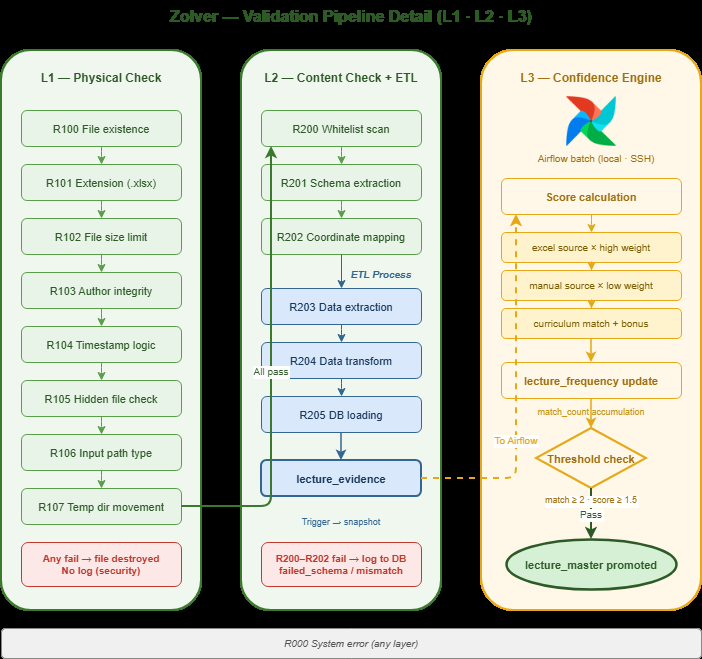
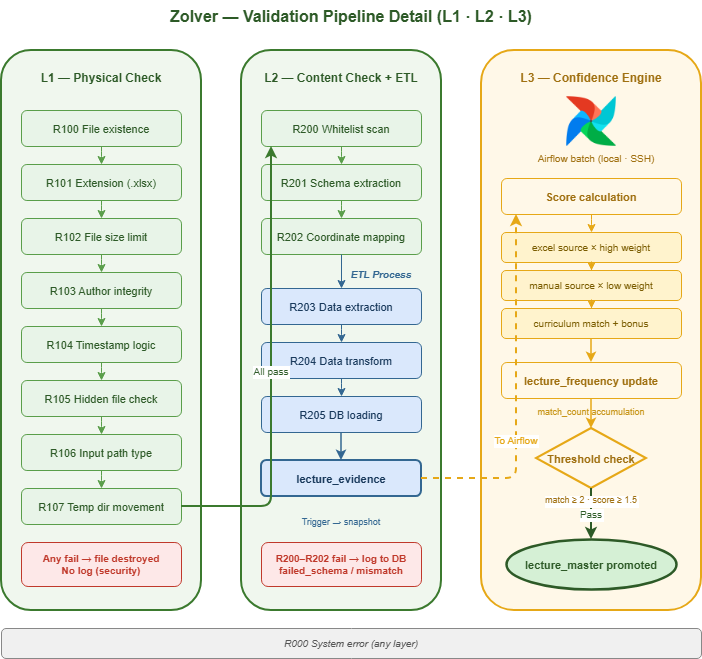
docs: add idempotency hash collision fix to design decisions

Changed region(s): [[0.0, 0.0, 1.0, 0.9712]]

diff --git a/src/content.js b/src/content.js
@@ -8,7 +8,8 @@ export const profile = {
   name: "Yoonjeong Hwang",
   greeting: "Hi, I'm Yoonjeong Hwang.",
   role: "Aspiring Data Engineer · Backend / Data Pipeline",
-  tagline: "I turned a single uploaded transcript into data you can actually trust — solo, end to end.",
+  tagline: "I like studying things in depth, writing down what I learn, and growing through the process with the people I build with.",
+  current: "Currently teaming up on a public-data ideas competition (ARTE × LINKareer).",
   links: {
     github: "https://github.com/hvvrnz",
     velog: "https://velog.io/@0lalsoo",
@@ -95,6 +96,8 @@ export const architecture = {
     title: "Data model",
     caption:
       "lecture_evidence (raw, per-upload) feeds lecture_validation (per-rule snapshot) which aggregates into lecture_frequency, the input to the L3 confidence score. Only records that clear the threshold get promoted into lecture_master — the table the rest of the app actually reads from.",
+    designNote:
+      "Intentional denormalization: under 1GB of RAM, join cost under traffic spikes looked riskier than redundant reads. Given the table count and data volume here, I chose select-only access patterns on purpose instead of relying on joins.",
   },
 };
 
@@ -193,6 +196,34 @@ export const designInsights = [
       "For response speed and memory, I picked extraction methods deliberately. scalar() drops everything but a single value, avoiding unnecessary row instantiation. mappings() adds column-name access at the cost of extra indexing overhead — useful when an API needs a dict of fields. fetchone() keeps the cursor open for further iteration; first() closes it immediately — so first() for single lookups, fetchone() for batch iteration, to avoid connection leaks under concurrent load.",
     code: null,
   },
+  {
+    title: "Two hashes, two different jobs, on account deletion",
+    body:
+      "provider_id_hash and the stored refresh token are both hashed, but deliberately with different properties. provider_id_hash uses a deterministic hash, so the same Kakao account always maps to the same value. That's load-bearing in two places: it's the input to a per-record unique_hash that keeps lecture_evidence idempotent (the same user uploading the same course for the same year/semester always resolves to the same row, never a duplicate), and it gives the L3 confidence engine a stable identity across deletion and re-signup — without it, the same person could resurface as a \u201Cnew\u201D account and inflate match_count artificially, corrupting the trust score for everyone, not just resetting one bad actor's history. The refresh token, by contrast, is hashed non-deterministically (salted), since it's a bearer secret rather than an identifier: it only ever needs to be verified, never matched against a second time. That distinction forced a security-vs-auditability trade-off that's visible directly in the schema: login_sessions keys off provider_id_hash, users keys off user_id, and user_actions_log carries both. On deletion, the users row is removed and every other user_id reference is set to NULL — except provider_id_hash inside user_actions_log, which is deliberately left in place.",
+    code: `-- on account deletion
+DELETE FROM users WHERE user_id = :id;
+UPDATE user_actions_log SET user_id = NULL WHERE user_id = :id;
+-- provider_id_hash in user_actions_log is left untouched,
+-- so abuse history survives deletion without staying linkable
+-- to an active account.`,
+  },
+  {
+    title: "A hash collision from a copy-pasted field",
+    body:
+      "unique_hash on each lecture_evidence row exists for idempotency: the same user uploading the same course for the same year/semester should always resolve to the same row. The first version of the input string included lecture_category twice instead of including lecture_name — so two different courses in the same category, year, and semester silently collided into the same hash, and one of them quietly overwrote the other. Adding lecture_name to the raw string fixed it.",
+    code: `# before — lecture_category appears twice, lecture_name is missing
+uhashraw = f"{lecture_category}:{lecture_code}:{completion_year}:{completion_semester}"
+
+# after — lecture_name included, so courses in the same
+# category/year/semester no longer collide
+uhashraw = f"{lecture_name}:{lecture_code}:{completion_year}:{completion_semester}"
+unique_hash = generate_unique_hash(pihash=provider_id_hash, uhashraw=uhashraw)
+
+def generate_unique_hash(pihash, uhashraw):
+    salt = settings.SALT
+    raw_text = f"{pihash}:{uhashraw}:{salt}"
+    return hashlib.sha256(raw_text.encode()).hexdigest()`,
+  },
 ];
 
 // AI recommendation story
@@ -244,12 +275,6 @@ export const observability = {
     "Failures by logger type — failed_schema vs. schema_mismatch_masked",
     "Failures by provider_id_hash — surfaces users hitting repeated errors",
   ],
-};
-
-export const perseverance = {
-  quote: "Because I said I would. And because if there's no working URL at the end, none of that time meant anything.",
-  body:
-    "I didn't know what RAM was, let alone an API, when I deferred graduation to build, ship, and run this service alone for five months. The hardest part was the isolation — no peers on the same path, no one to check whether I was even headed the right direction. I kept adding small pieces every day until there was a live service at the end of it.",
 };
 
 // Handwritten study notes — drop real scans into src/assets/notes/ and set `image` below

diff --git a/src/components.css b/src/components.css
@@ -21,8 +21,8 @@
 .hero-text { flex: 1; min-width: 0; }
 .hero-photo-frame {
   flex-shrink: 0;
-  width: 104px;
-  height: 104px;
+  width: 168px;
+  height: 168px;
   border-radius: var(--radius);
   border: 1px solid var(--line);
   overflow: hidden;
@@ -37,7 +37,7 @@
 
 @media (max-width: 640px) {
   .hero-top { flex-direction: column-reverse; align-items: flex-start; gap: 20px; }
-  .hero-photo-frame { width: 84px; height: 84px; }
+  .hero-photo-frame { width: 120px; height: 120px; }
 }
 .hero-eyebrow {
   font-family: var(--font-mono);
@@ -66,8 +66,14 @@
   font-size: 14px;
   max-width: 480px;
   color: var(--ink-soft);
-  margin-bottom: 20px;
+  margin-bottom: 10px;
   line-height: 1.65;
+}
+.hero-current {
+  font-family: var(--font-mono);
+  font-size: 12px;
+  color: var(--olive);
+  margin-bottom: 20px;
 }
 .hero-links { font-size: 13px; color: var(--ink-soft); }
 .hero-links a { color: var(--brown); }
@@ -382,6 +388,14 @@
   background: #1f1d18;
 }
 .diagram-caption { font-size: 13px; color: var(--ink-soft); max-width: 680px; }
+.diagram-note {
+  font-size: 13px;
+  color: var(--ink-soft);
+  max-width: 680px;
+  margin-top: 10px;
+  border-left: 3px solid var(--rust);
+  padding-left: 12px;
+}
 
 /* ---------- API overview ---------- */
 .api-router-list { display: flex; flex-direction: column; gap: 0; }

diff --git a/src/components/Project.jsx b/src/components/Project.jsx
@@ -4,8 +4,8 @@ export default function Project() {
   return (
     <section className="section">
       <div className="container">
-        <span className="eyebrow">// zolver — operation</span>
-        <h2 className="section-title">Solo-built, solo-run</h2>
+        <span className="eyebrow">// zolver in production</span>
+        <h2 className="section-title">From idea to a running service</h2>
 
         <div className="stats-grid">
           {stats.map((s) => (

diff --git a/index.html b/index.html
@@ -3,7 +3,7 @@
   <head>
     <meta charset="UTF-8" />
     <meta name="viewport" content="width=device-width, initial-scale=1.0" />
-    <title>황윤정 — Data Engineering Portfolio</title>
+    <title>Yoonjeong Hwang — Data Engineering Portfolio</title>
     <meta name="description" content="hwangyoonjeong" />
     <link rel="preconnect" href="https://fonts.googleapis.com" />
     <link rel="preconnect" href="https://fonts.gstatic.com" crossorigin />

diff --git a/src/App.jsx b/src/App.jsx
@@ -9,7 +9,6 @@ import Observability from "./components/Observability.jsx";
 import DesignInsights from "./components/DesignInsights.jsx";
 import AIStory from "./components/AIStory.jsx";
 import TechStack from "./components/TechStack.jsx";
-import Perseverance from "./components/Perseverance.jsx";
 import StudyNotes from "./components/StudyNotes.jsx";
 import Footer from "./components/Footer.jsx";
 
@@ -26,7 +25,6 @@ export default function App() {
       <DesignInsights />
       <AIStory />
       <TechStack />
-      <Perseverance />
       <StudyNotes />
       <Footer />
     </>

diff --git a/src/components/Architecture.jsx b/src/components/Architecture.jsx
@@ -27,6 +27,7 @@ export default function Architecture() {
           <h3 className="diagram-title">{architecture.erd.title}</h3>
           <img className="diagram-img" src={erdImg} alt="Zolver entity relationship diagram" />
           <p className="diagram-caption">{architecture.erd.caption}</p>
+          <p className="diagram-note">{architecture.erd.designNote}</p>
         </div>
       </div>
     </section>

diff --git a/src/components/Hero.jsx b/src/components/Hero.jsx
@@ -12,6 +12,7 @@ export default function Hero() {
             <h1 className="hero-name">{profile.name}</h1>
             <p className="hero-role">{profile.role}</p>
             <p className="hero-tagline">{profile.tagline}</p>
+            <p className="hero-current">{profile.current}</p>
 
             <div className="hero-links">
               <a href={profile.links.service} target="_blank" rel="noreferrer">zolver.co.kr</a>